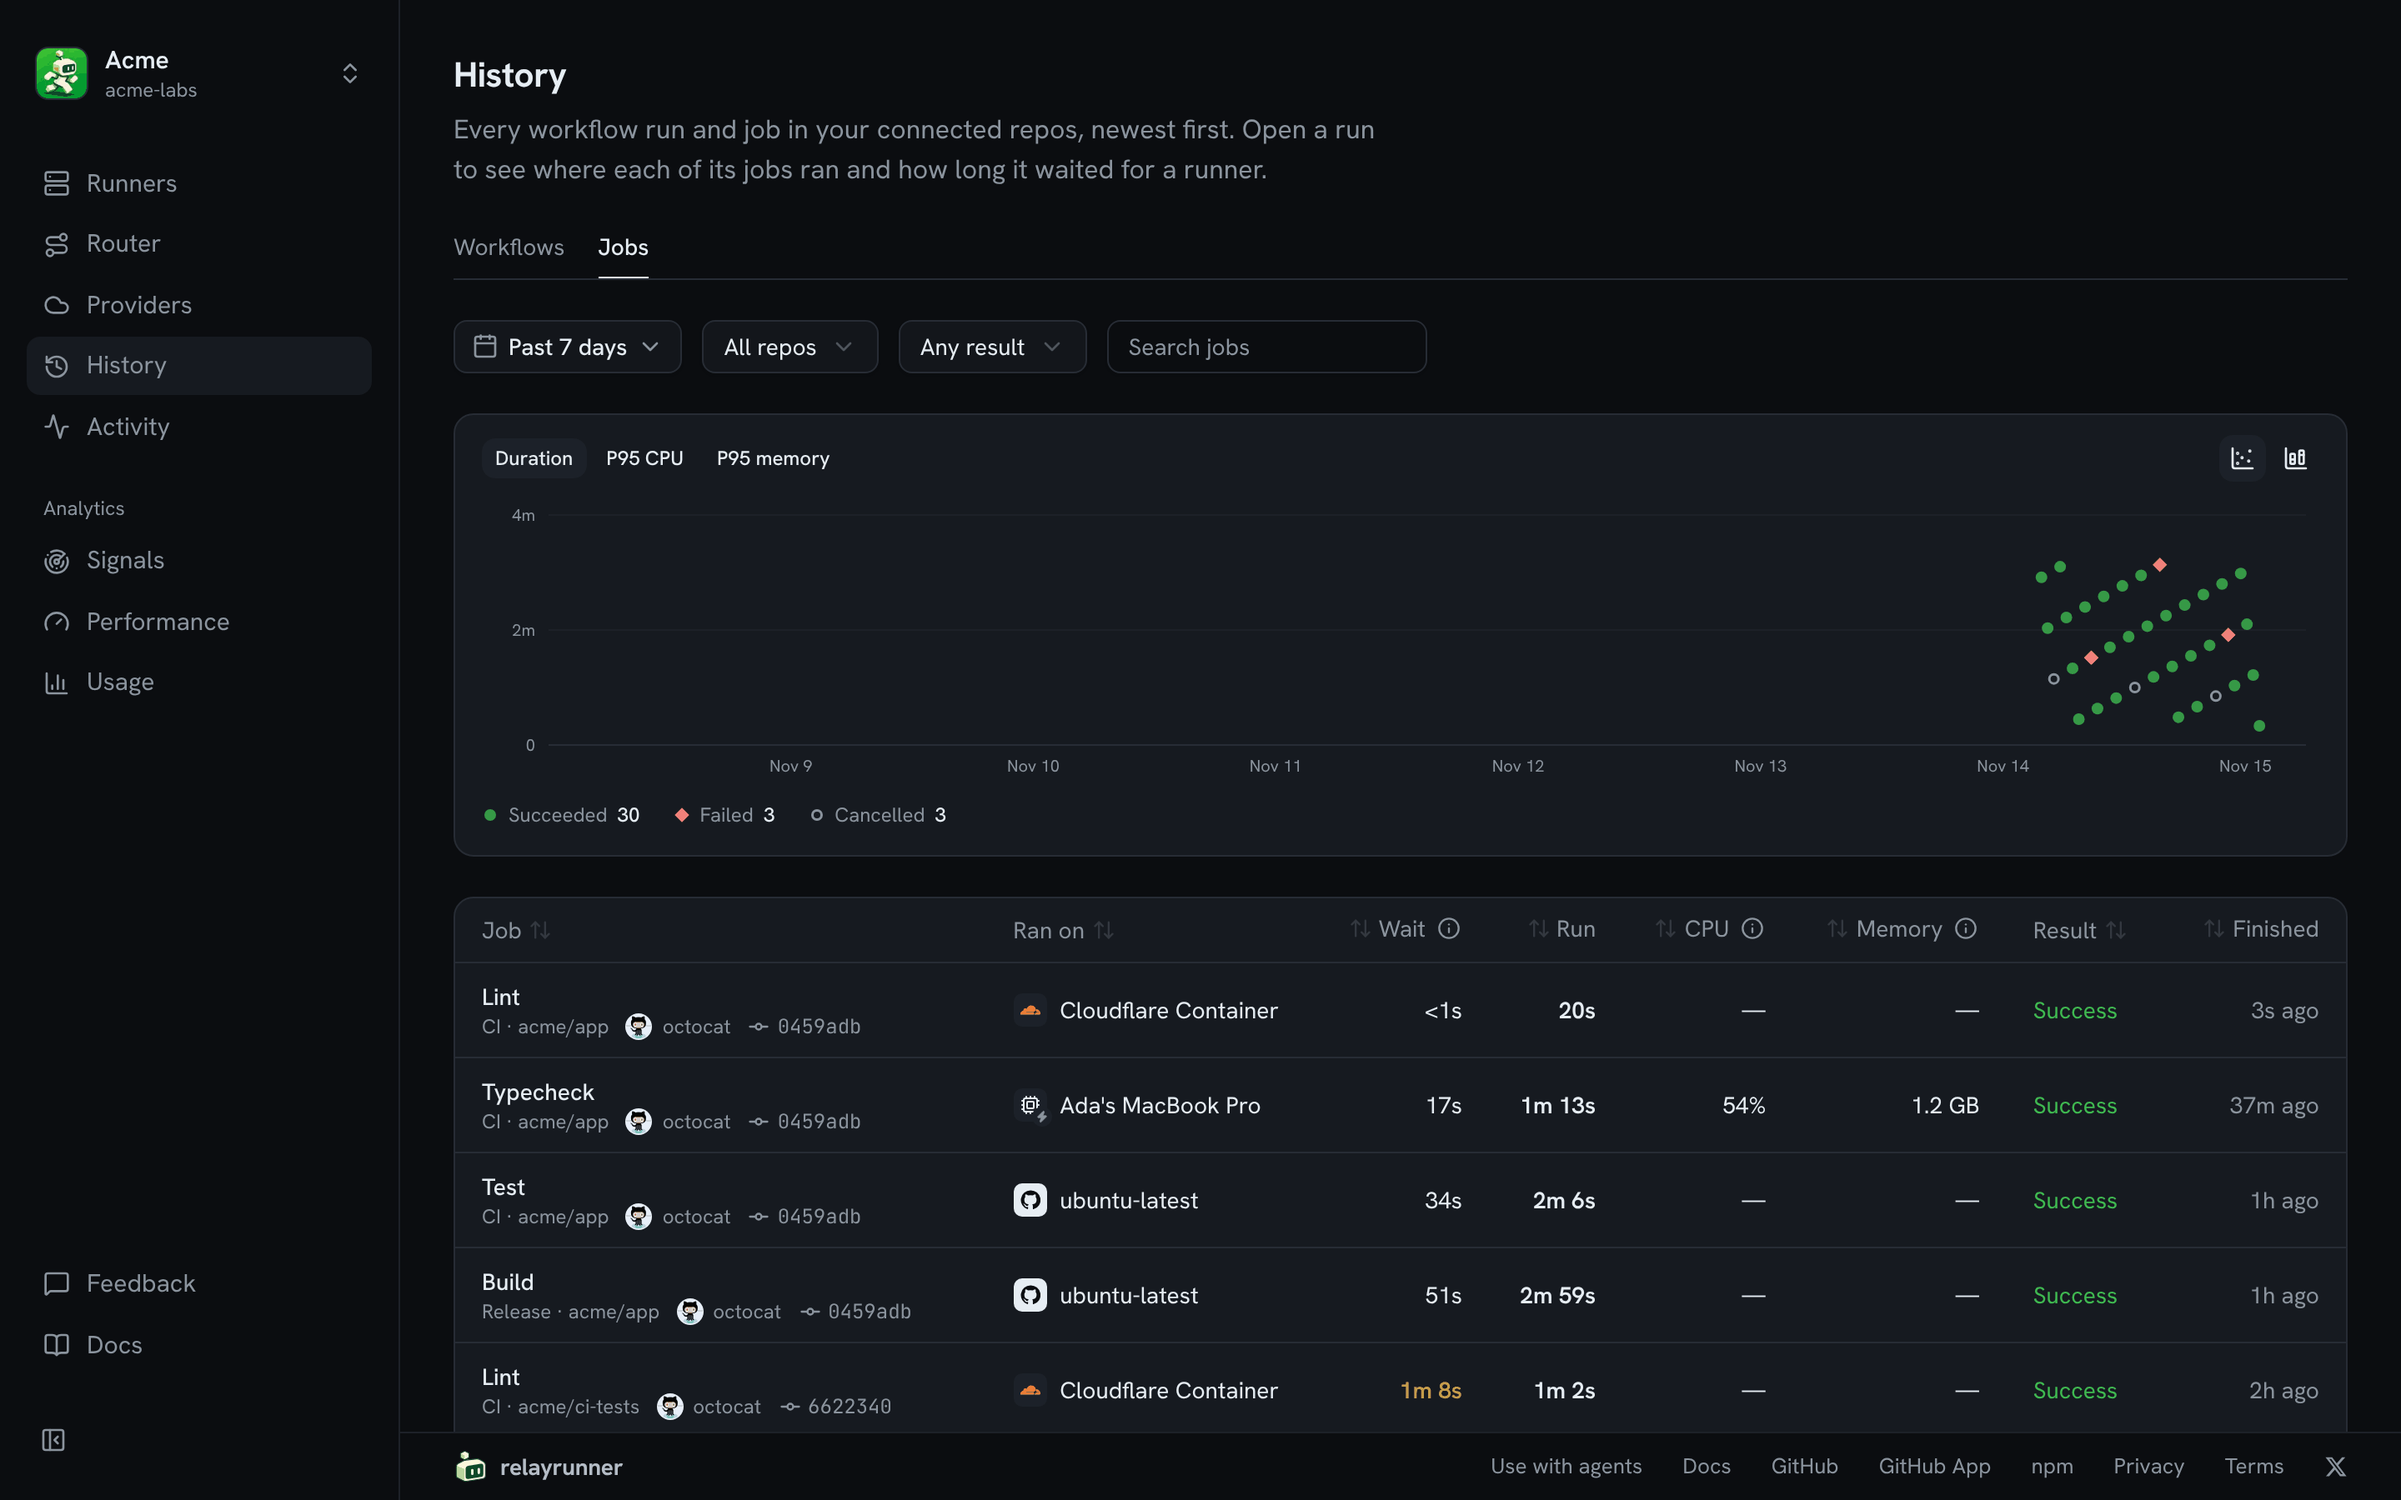
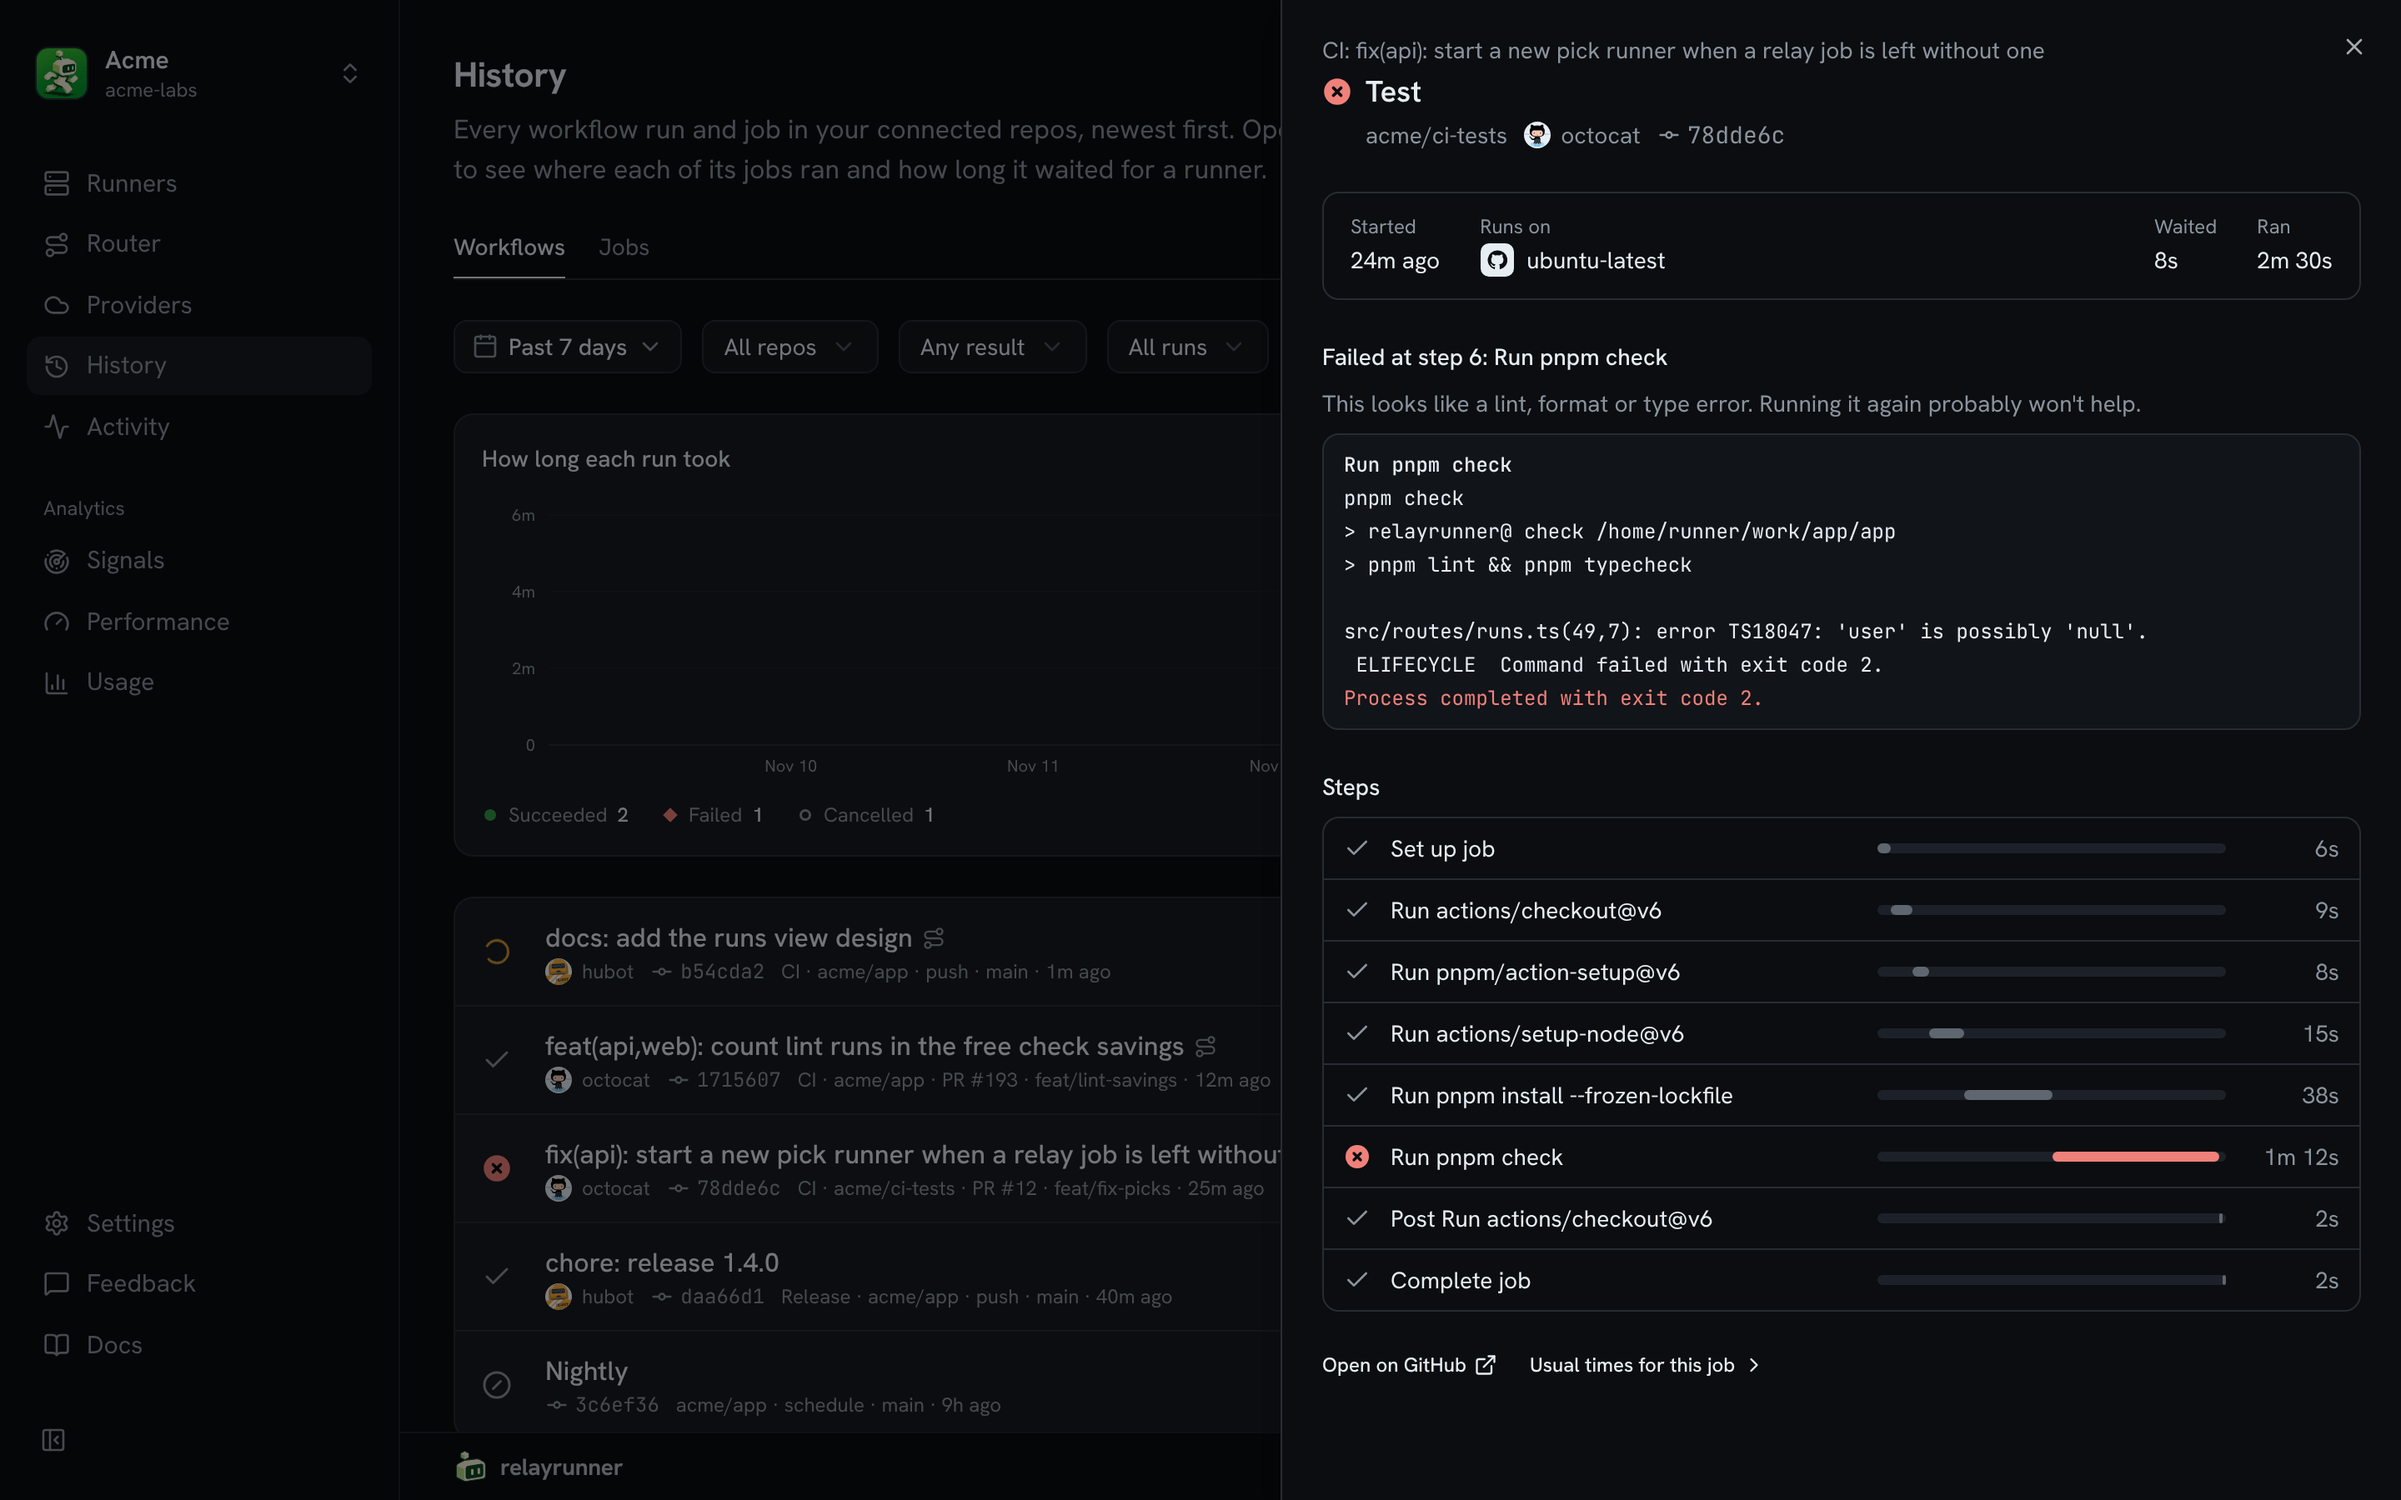
docs: refresh dashboard screenshots and add them to the site and docs (#531)
* docs: refresh README screenshots and add the Runners page

Claude-Session: https://claude.ai/code/session_01KeLbkgBP2esGCLzeZUJn2Q

* docs(site): add dashboard screenshots to the site and docs, captured by pnpm screenshots

Claude-Session: https://claude.ai/code/session_01KeLbkgBP2esGCLzeZUJn2Q

---------

diff --git a/apps/web/src/lib/runs.ts b/apps/web/src/lib/runs.ts
@@ -273,7 +273,7 @@ function sampleRun(run: Partial<Run> & Pick<Run, "runId">): Run {
 const SAMPLE_ENVIRONMENTS: Environment[] = [
   { key: "github:linux-2-core", label: "ubuntu-latest", detail: "GitHub-hosted" },
   { key: "container", label: "Cloudflare Container", detail: "standard-1" },
-  { key: "machine:sample", label: "Zach's MacBook Pro", detail: "MacBook Pro · Apple M3 Max" },
+  { key: "machine:sample", label: "Ada's MacBook Pro", detail: "MacBook Pro · Apple M3 Max" },
 ];
 
 /** Example runs for `VITE_AUTH_DISABLED=true` dev builds, which have no API. */
@@ -296,7 +296,7 @@ export function sampleRuns(): RunsReport {
         title: "feat(api,web): count lint runs in the free check savings",
         event: "pull_request",
         pullRequest: 193,
-        branch: "claude/lint-savings",
+        branch: "feat/lint-savings",
       }),
       sampleRun({
         runId: 4,
@@ -304,7 +304,7 @@ export function sampleRuns(): RunsReport {
         title: "fix(api): start a new pick runner when a relay job is left without one",
         event: "pull_request",
         pullRequest: 12,
-        branch: "claude/fix-picks",
+        branch: "feat/fix-picks",
         conclusion: "failure",
         startedAt: now - 25 * MIN,
         updatedAt: now - 21 * MIN,

diff --git a/apps/web/src/lib/machines.ts b/apps/web/src/lib/machines.ts
@@ -175,7 +175,7 @@ export async function workspaceMachine(id: string) {
 // The dev preview's machines, matching the sample reports' `machine:` keys.
 const SAMPLE_MACHINE: Machine = {
   id: "sample",
-  name: "zach-mbp",
+  name: "ada-mbp",
   os: "linux",
   arch: "arm64",
   labels: ["self-hosted", "Linux", "ARM64"],
@@ -201,7 +201,7 @@ const SAMPLE_MACHINE: Machine = {
     update: "2.331.0",
     updateBy: new Date(Date.now() + 23 * 86_400_000).toISOString(),
   },
-  owner: "Zach",
+  owner: "Ada",
   mine: true,
   sharing: "anyone",
   status: {

diff --git a/apps/web/src/lib/live-jobs.ts b/apps/web/src/lib/live-jobs.ts
@@ -127,7 +127,7 @@ export function sampleLiveJobs(now = Date.now()): LiveJobs {
   return {
     environments: [
       { key: "github:linux-2-core", label: "ubuntu-latest", detail: "GitHub-hosted" },
-      { key: "machine:sample", label: "zach-mbp", detail: "" },
+      { key: "machine:sample", label: "ada-mbp", detail: "" },
       { key: "machine:sample-mini", label: "studio-mini", detail: "" },
       { key: "self-hosted:default", label: "Self-hosted", detail: "" },
     ],

diff --git a/apps/site/src/styles/screenshot.css b/apps/site/src/styles/screenshot.css
@@ -1,0 +1,18 @@
+/* Dashboard screenshots (Screenshot.astro). Each has a light and a dark image; only the one
+   matching the site theme shows. */
+.shot {
+  margin-inline: 0;
+  overflow: hidden;
+  border: 1px solid var(--line);
+  border-radius: 14px;
+  box-shadow: var(--shadow-card);
+}
+.shot img {
+  display: block;
+  width: 100%;
+  height: auto;
+}
+:root[data-theme="dark"] .shot-light,
+:root:not([data-theme="dark"]) .shot-dark {
+  display: none;
+}

diff --git a/apps/site/src/lib/agent-docs.ts b/apps/site/src/lib/agent-docs.ts
@@ -47,6 +47,10 @@ function componentsToMarkdown(body: string) {
     .replace(/^<ErrorTable\s*\/>[ \t]*$/gm, errorTableMarkdown)
     .replace(/^<Provider id="([\w-]+)"\s*\/>[ \t]*$/gm, (tag, id: string) =>
       isProviderId(id) ? providerMarkdown(id) : tag,
+    )
+    .replace(
+      /^<Screenshot\s+name="(\w+)"\s+alt="([^"]*)"[^>]*\/>[ \t]*$/gm,
+      (_, name: string, alt: string) => `![${alt}](/screenshots/${name}-light.webp)`,
     );
 }
 

diff --git a/apps/web/src/lib/job-times.ts b/apps/web/src/lib/job-times.ts
@@ -217,7 +217,7 @@ export function sampleJobTimes(days: number): JobTimesReport {
       },
       {
         key: mac,
-        label: "Zach's MacBook Pro",
+        label: "Ada's MacBook Pro",
         detail: "MacBook Pro · Apple M3 Max",
         machine: { source: "connect", kind: "laptop", model: "MacBook Pro" },
         stat: stat(41, 50, 198),

diff --git a/apps/site/src/style.css b/apps/site/src/style.css
@@ -448,6 +448,12 @@ button {
 .feature code {
   font-size: 15px;
 }
+.section > .body {
+  max-width: 62ch;
+}
+.section .shot {
+  margin-top: clamp(28px, 4vw, 48px);
+}
 .panel {
   padding: clamp(18px, 2.5vw, 32px);
   border: 1px solid var(--line-soft);

diff --git a/README.md b/README.md
@@ -62,18 +62,25 @@ Public repositories never run on connected machines, since anyone could run code
 
 ## The dashboard
 
+**Runners.** See what's running and queued right now, which runners are busy, and anything that needs you, like an offline machine with a job waiting.
+
+<picture>
+  <source media="(prefers-color-scheme: dark)" srcset=".github/readme/runners-dark.png">
+  <img alt="The Runners page: running, idle and offline counts, a Needs attention list, jobs running now and queued, and each self-hosted runner's slots." src=".github/readme/runners-light.png">
+</picture>
+
 **Router.** Put your runners in order. Each job takes the first one that can run it.
 
 <picture>
   <source media="(prefers-color-scheme: dark)" srcset=".github/readme/router-dark.png">
-  <img alt="The Router page: GitHub-hosted while under 80% of included minutes, then self-hosted, then GitHub-hosted always." src=".github/readme/router-light.png">
+  <img alt="The Router page: GitHub-hosted while under 80% of included minutes, then self-hosted, then GitHub-hosted always, with the command to set up a repo and the workflows already routed." src=".github/readme/router-light.png">
 </picture>
 
-**History.** See every job, where it ran, how long it waited and how long it took.
+**History.** See every run and job, where it ran and how long it waited. A failed job shows the failing step, its log and whether a re-run will likely help.
 
 <picture>
   <source media="(prefers-color-scheme: dark)" srcset=".github/readme/history-dark.png">
-  <img alt="The History page's job list: each job's commit and author, the runner it ran on, its wait and run time, and its result." src=".github/readme/history-light.png">
+  <img alt="A failed job in History: it failed at Run pnpm check, looks like a type error that a re-run won't fix, with the log excerpt and step times." src=".github/readme/history-light.png">
 </picture>
 
 **Performance.** Compare how long jobs take on each runner.

diff --git a/AGENTS.md b/AGENTS.md
@@ -22,7 +22,7 @@ Use [Conventional Commits](https://www.conventionalcommits.org/) for every commi
 - Write the description in the imperative mood and in lowercase, with no trailing period.
 - Mark a breaking change with `!` after the type or scope, such as `feat(api)!: …`.
 
-Never commit screenshots or other PR images to the repository. Upload them with the Uploads MCP or CLI and attach them to the pull request as a comment. The one exception is the README's images in `.github/readme/`.
+Never commit screenshots or other PR images to the repository. Upload them with the Uploads MCP or CLI and attach them to the pull request as a comment. The exceptions are the dashboard screenshots the README and the site show, in `.github/readme/` and `apps/site/public/screenshots/`. `pnpm screenshots` captures them from the dashboard's sample data, so refresh them with it rather than by hand.
 
 ## Formatting and checks
 
